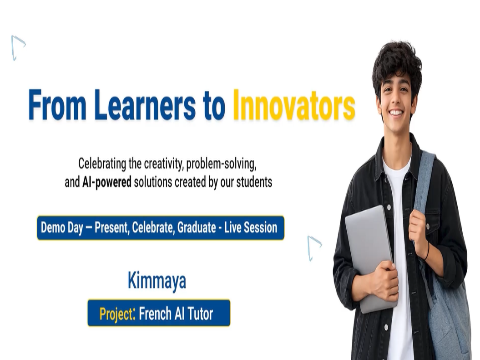
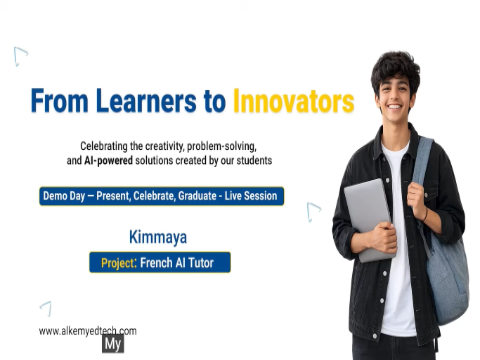
Missed thubnail is uploaded v24

diff --git a/src/WinnersSection.jsx b/src/WinnersSection.jsx
@@ -9,7 +9,7 @@ const batches = {
       label: "WINNER - CLASS 8",
       videoUrl:
         "https://www.youtube.com/watch?v=fuosW7R-F4I",
-      thumbnail: "/images/thumbnails/kimmaya.png",
+      thumbnail: "/images/thumbnails/kimmaya-thumbnail.png",
     },
     {
       name: "Shazain",
